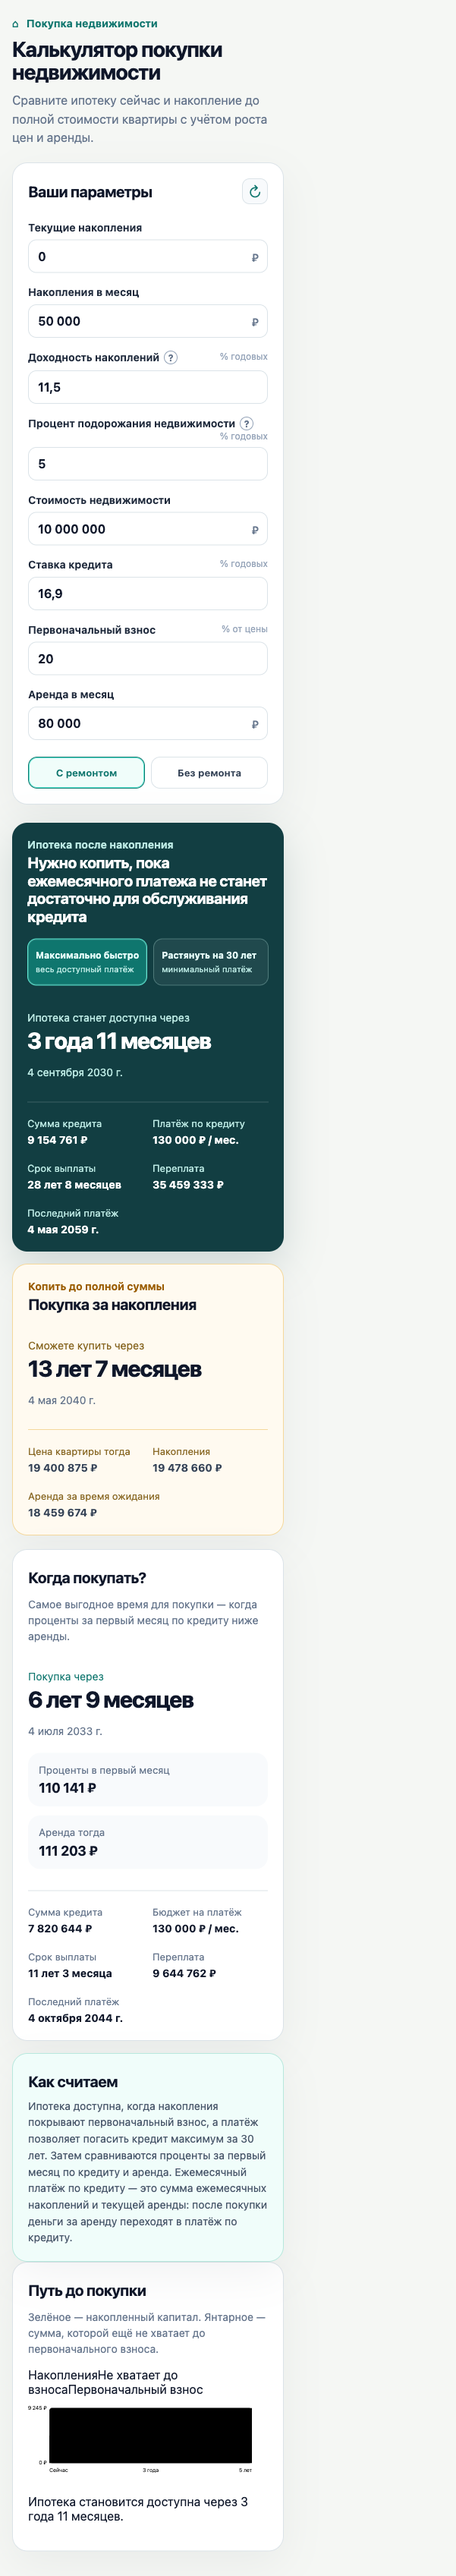
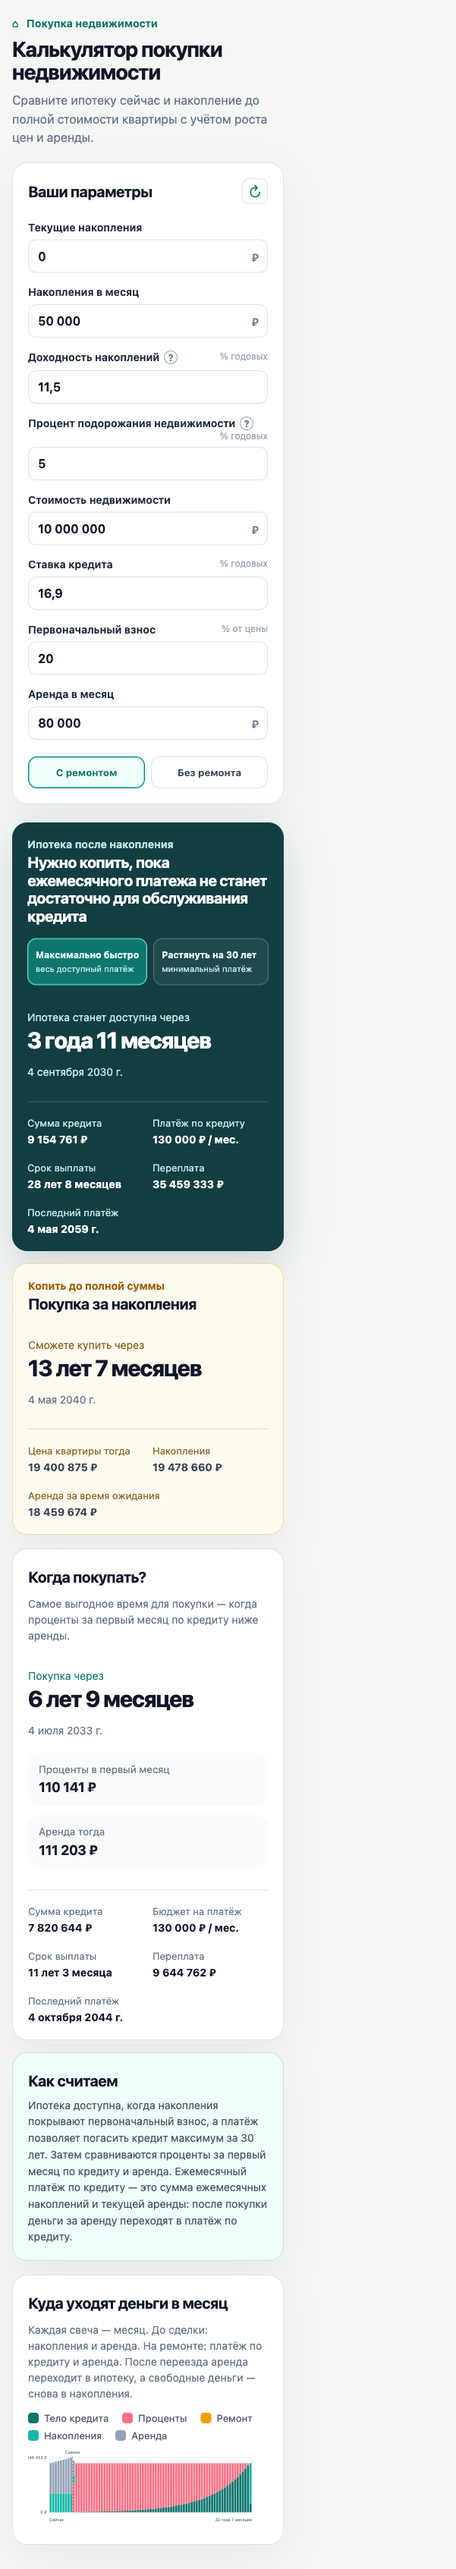
Replace journey chart with hover tooltips; drop the journey chart (#10)
- Remove the «Путь до покупки» card and buildJourney from the model
  and tests (fixture regenerated without journey data)
- Cashflow chart: styled hover tooltip with the period and per-category
  amounts, flips near card edges
- Legend swatches now use background colors (SVG fill did nothing on
  HTML elements, so the legend rendered blank)

diff --git a/src/App.vue b/src/App.vue
@@ -1,6 +1,6 @@
 <script setup>
 import { computed, nextTick, onMounted, reactive, ref } from 'vue';
-import { DEFAULTS, SIMULATION_HORIZON_MONTHS, RENOVATION_COST_SHARE, calculate, isMortgagePaymentTooLow, buildJourney, buildCashflow, rentPaidUntilMonth } from './lib/model.js';
+import { DEFAULTS, SIMULATION_HORIZON_MONTHS, RENOVATION_COST_SHARE, calculate, isMortgagePaymentTooLow, buildCashflow, rentPaidUntilMonth } from './lib/model.js';
 import { addMonths, formatDate, duration } from './lib/format.js';
 
 const inputs = reactive({ ...DEFAULTS });
@@ -46,7 +46,6 @@ const setRenovationCost = (event) => {
 };
 const result = computed(() => calculate(inputs, repaymentMode.value, { needed: renovationNeeded.value, cost: renovationCost.value, months: renovationMonths.value, funding: renovationFunding.value }));
 const mortgagePaymentTooLow = computed(() => isMortgagePaymentTooLow(result.value));
-const journey = computed(() => buildJourney(inputs, result.value.mortgageAffordable, result.value.mortgageAtDownPayment));
 const CASHFLOW_SEGMENTS = [
   { key: 'principal', label: 'Тело кредита', pick: (row) => row.principal },
   { key: 'interest', label: 'Проценты', pick: (row) => row.interest },
@@ -55,6 +54,20 @@ const CASHFLOW_SEGMENTS = [
   { key: 'rent', label: 'Аренда', pick: (row) => row.rent }
 ];
 const cashflow = computed(() => buildCashflow(inputs, repaymentMode.value, { needed: renovationNeeded.value, cost: renovationCost.value, months: renovationMonths.value, funding: renovationFunding.value }));
+const cashflowHover = ref(null);
+const cashflowTooltip = (row, event) => {
+  const container = event.currentTarget.closest('.cashflow-chart');
+  const rect = container.getBoundingClientRect();
+  let left = event.clientX - rect.left + 16, top = event.clientY - rect.top + 16;
+  if (left > rect.width - 250) left -= 266;
+  if (top > rect.height - 180) top -= 196;
+  cashflowHover.value = {
+    left: Math.max(4, left), top: Math.max(4, top),
+    period: row.period,
+    segments: row.segments.filter(({ value }) => value >= 1),
+    total: row.segments.reduce((acc, segment) => acc + segment.value, 0)
+  };
+};
 const cashflowChart = computed(() => {
   const data = cashflow.value;
   if (!data) return null;
@@ -78,11 +91,10 @@ const cashflowChart = computed(() => {
       top -= height;
       segments.push({ key: segment.key, y: top, height, label: segment.label, value });
     }
-    const parts = segments.filter(({ value }) => value >= 1).map(({ label, value }) => `${label}: ${money.format(value)}${bucket.months > 1 ? ' /мес' : ''}`);
     const period = bucket.months > 1
       ? `В среднем в месяц, ${formatDate(addMonths(new Date(), bucket.start))} — ${formatDate(addMonths(new Date(), bucket.end))}`
       : `${formatDate(addMonths(new Date(), bucket.start))}`;
-    return { month: bucket.start, x: 64 + index * slot + (slot - barWidth) / 2, segments, title: `${period} — ${parts.join(', ')}` };
+    return { month: bucket.start, x: 64 + index * slot + (slot - barWidth) / 2, segments, period };
   });
   const markerX = (month) => 64 + Math.min(buckets.length - 1, Math.floor(month / bucketSize)) * slot;
   return {
@@ -122,5 +134,5 @@ onMounted(() => { const context = document.modelContext; if (!context?.registerT
     <p v-else class="empty">Первоначальный взнос не накапливается в горизонте 60 лет.</p>
   </article>
   <article class="card cash"><p class="kicker">Копить до полной суммы</p><h2>Покупка за накопления</h2><template v-if="result.cashPurchase"><p class="big-label">Сможете купить через</p><p class="big">{{ duration(result.cashPurchase.month) }}</p><p class="muted">{{ formatDate(addMonths(new Date(), result.cashPurchase.month)) }}</p><dl><div><dt>Цена квартиры тогда</dt><dd>{{ money.format(result.cashPurchase.price) }}</dd></div><div><dt>Накопления</dt><dd>{{ money.format(result.cashPurchase.balance) }}</dd></div><div class="wide"><dt>Аренда за время ожидания</dt><dd>{{ money.format(result.cashPurchase.rentPaid) }}</dd></div><div v-if="renovationNeeded" class="wide"><dt>Дата переезда</dt><dd>{{ moveDate(result.cashPurchase.moveMonth) }}</dd></div></dl></template><p v-else class="empty">При этих параметрах накопления не догоняют стоимость недвижимости за 60 лет. Увеличьте ежемесячный взнос или доходность вклада.</p></article></div>
-  <div class="bottom"><article class="card threshold"><h2>Когда покупать?</h2><p class="muted">Самое выгодное время для покупки — когда проценты за первый месяц по кредиту ниже аренды.</p><template v-if="result.thresholdPurchase"><p class="big-label">Покупка через</p><p class="big">{{ duration(result.thresholdPurchase.month) }}</p><p class="muted">{{ formatDate(addMonths(new Date(), result.thresholdPurchase.month)) }}</p><div class="year"><div><small>Проценты в первый месяц</small><strong>{{ money.format(result.thresholdPurchase.firstMonthInterest) }}</strong></div><div><small>Аренда тогда</small><strong>{{ money.format(result.thresholdPurchase.rent) }}</strong></div></div><dl><div><dt>Сумма кредита</dt><dd>{{ money.format(result.thresholdPurchase.principal) }}</dd></div><div><dt>Бюджет на платёж</dt><dd>{{ money.format(result.thresholdPurchase.payment) }} / мес.</dd></div><div><dt>Срок выплаты</dt><dd>{{ duration(result.thresholdPurchase.months) }}</dd></div><div><dt>Переплата</dt><dd>{{ money.format(result.thresholdPurchase.overpayment) }}</dd></div><div class="wide"><dt>Последний платёж</dt><dd>{{ formatDate(addMonths(addMonths(new Date(), result.thresholdPurchase.month), result.thresholdPurchase.months)) }}</dd></div><div v-if="renovationNeeded"><dt>Переезд</dt><dd>{{ moveDate(result.thresholdPurchase.moveMonth) }}</dd></div><div v-if="renovationNeeded" class="wide"><dt>Аренда до переезда</dt><dd>{{ moveRent(result.thresholdPurchase.moveMonth) }}</dd></div></dl></template><p v-else class="empty">В горизонте 60 лет условия покупки не выполняются.</p></article><aside class="card how"><h2>Как считаем</h2><p>Ипотека доступна, когда накопления покрывают первоначальный взнос, а платёж позволяет погасить кредит максимум за 30 лет. Затем сравниваются проценты за первый месяц по кредиту и аренда. Ежемесячный платёж по кредиту — это сумма ежемесячных накоплений и текущей аренды: после покупки деньги за аренду переходят в платёж по кредиту.</p><p v-if="renovationNeeded && renovationFunding === 'before'">Квартира без ремонта: цель накоплений — первоначальный взнос плюс стоимость ремонта, обе суммы растут вместе с ценой недвижимости. Сделка, затем ремонт — в это время аренда продолжается, а платёж по кредиту обслуживается только из ежемесячных накоплений. Аренда переходит в платёж по кредиту после переезда.</p><p v-if="renovationNeeded && renovationFunding === 'after'">Ремонт после покупки: сделка — при накоплении первоначального взноса. Пока ремонт не оплачен, кредит обслуживается 30-летним аннуитетом, а излишек «накопления минус аннуитет» идёт на ремонт поэтапно. Переезд — когда завершены и работы, и оплата; после переезда свободные деньги ускоряют погашение.</p></aside></div><article class="card journey-chart"><div><h2>Путь до покупки</h2><p class="muted">Зелёное — накопленный капитал. Янтарное — сумма, которой ещё не хватает до первоначального взноса.</p></div><div class="chart-legend"><span><i class="legend-savings"></i>Накопления</span><span><i class="legend-shortage"></i>Не хватает до взноса</span><span><i class="legend-down-payment"></i>Первоначальный взнос</span></div><svg viewBox="0 0 720 250" role="img" aria-label="График накоплений и первоначального взноса"><defs><linearGradient id="savings-fill" x1="0" x2="0" y1="0" y2="1"><stop offset="0" stop-color="#14b8a6" stop-opacity=".5"/><stop offset="1" stop-color="#14b8a6" stop-opacity=".05"/></linearGradient><linearGradient id="shortage-fill" x1="0" x2="0" y1="0" y2="1"><stop offset="0" stop-color="#f59e0b" stop-opacity=".35"/><stop offset="1" stop-color="#f59e0b" stop-opacity=".08"/></linearGradient></defs><rect class="chart-frame" x="64" y="34" width="608" height="166" rx="8"/><line class="chart-grid" x1="64" y1="117" x2="672" y2="117"/><path class="chart-area-savings" :d="journey.savingsArea"/><path v-if="journey.shortageArea" class="chart-area-shortage" :d="journey.shortageArea"/><line v-if="journey.markerX !== null" class="chart-marker" :x1="journey.markerX" y1="34" :x2="journey.markerX" y2="200"/><path class="chart-line chart-down-payment" :d="journey.requiredPath"/><path class="chart-line chart-savings" :d="journey.savingsPath"/><text x="56" y="40" text-anchor="end">{{ money.format(journey.maximum) }}</text><text x="56" y="204" text-anchor="end">0 ₽</text><text x="64" y="226">Сейчас</text><text :x="journey.middleX" y="226" text-anchor="middle">{{ journey.middleLabel }}</text><text x="672" y="226" text-anchor="end">{{ journey.endLabel }}</text></svg><p v-if="journey.markerLabel" class="chart-note"><span></span>Ипотека становится доступна через {{ journey.markerLabel }}.</p><p v-else class="chart-note muted">В ближайшие 30 лет ипотека не становится доступна при текущих параметрах.</p></article><article v-if="cashflowChart" class="card cashflow-chart"><div><h2>Куда уходят деньги в месяц</h2><p class="muted">Каждая свеча — месяц. До сделки: накопления и аренда. На ремонте: платёж по кредиту и аренда. После переезда аренда переходит в ипотеку, а свободные деньги — снова в накопления.</p></div><div class="chart-legend"><span><i class="cf-principal"></i>Тело кредита</span><span><i class="cf-interest"></i>Проценты</span><span><i class="cf-renovation"></i>Ремонт</span><span><i class="cf-savings"></i>Накопления</span><span><i class="cf-rent"></i>Аренда</span></div><svg viewBox="0 0 720 250" role="img" aria-label="Ежемесячное распределение платежей по категориям"><rect class="chart-frame" x="64" y="34" width="608" height="166" rx="8"/><line class="chart-grid" x1="64" y1="117" x2="672" y2="117"/><g v-for="row in cashflowChart.rows" :key="row.month"><title>{{ row.title }}</title><rect v-for="seg in row.segments" :key="seg.key" :class="'cf-' + seg.key" :x="row.x" :y="seg.y" :width="cashflowChart.barWidth" :height="seg.height" rx="1"/></g><line v-if="cashflowChart.dealX !== null" class="chart-marker" :x1="cashflowChart.dealX" y1="34" :x2="cashflowChart.dealX" y2="200"/><text v-if="cashflowChart.dealX !== null" :x="cashflowChart.dealX" y="24" text-anchor="middle">Сделка</text><line v-if="cashflowChart.moveX !== null" class="chart-marker" :x1="cashflowChart.moveX" y1="34" :x2="cashflowChart.moveX" y2="200"/><text v-if="cashflowChart.moveX !== null" :x="cashflowChart.moveX" y="24" text-anchor="middle">Переезд</text><text x="56" y="40" text-anchor="end">{{ cashflowChart.maxLabel }}</text><text x="56" y="204" text-anchor="end">0 ₽</text><text x="64" y="226">Сейчас</text><text x="672" y="226" text-anchor="end">{{ cashflowChart.endLabel }}</text></svg></article></section></div></main>
+  <div class="bottom"><article class="card threshold"><h2>Когда покупать?</h2><p class="muted">Самое выгодное время для покупки — когда проценты за первый месяц по кредиту ниже аренды.</p><template v-if="result.thresholdPurchase"><p class="big-label">Покупка через</p><p class="big">{{ duration(result.thresholdPurchase.month) }}</p><p class="muted">{{ formatDate(addMonths(new Date(), result.thresholdPurchase.month)) }}</p><div class="year"><div><small>Проценты в первый месяц</small><strong>{{ money.format(result.thresholdPurchase.firstMonthInterest) }}</strong></div><div><small>Аренда тогда</small><strong>{{ money.format(result.thresholdPurchase.rent) }}</strong></div></div><dl><div><dt>Сумма кредита</dt><dd>{{ money.format(result.thresholdPurchase.principal) }}</dd></div><div><dt>Бюджет на платёж</dt><dd>{{ money.format(result.thresholdPurchase.payment) }} / мес.</dd></div><div><dt>Срок выплаты</dt><dd>{{ duration(result.thresholdPurchase.months) }}</dd></div><div><dt>Переплата</dt><dd>{{ money.format(result.thresholdPurchase.overpayment) }}</dd></div><div class="wide"><dt>Последний платёж</dt><dd>{{ formatDate(addMonths(addMonths(new Date(), result.thresholdPurchase.month), result.thresholdPurchase.months)) }}</dd></div><div v-if="renovationNeeded"><dt>Переезд</dt><dd>{{ moveDate(result.thresholdPurchase.moveMonth) }}</dd></div><div v-if="renovationNeeded" class="wide"><dt>Аренда до переезда</dt><dd>{{ moveRent(result.thresholdPurchase.moveMonth) }}</dd></div></dl></template><p v-else class="empty">В горизонте 60 лет условия покупки не выполняются.</p></article><aside class="card how"><h2>Как считаем</h2><p>Ипотека доступна, когда накопления покрывают первоначальный взнос, а платёж позволяет погасить кредит максимум за 30 лет. Затем сравниваются проценты за первый месяц по кредиту и аренда. Ежемесячный платёж по кредиту — это сумма ежемесячных накоплений и текущей аренды: после покупки деньги за аренду переходят в платёж по кредиту.</p><p v-if="renovationNeeded && renovationFunding === 'before'">Квартира без ремонта: цель накоплений — первоначальный взнос плюс стоимость ремонта, обе суммы растут вместе с ценой недвижимости. Сделка, затем ремонт — в это время аренда продолжается, а платёж по кредиту обслуживается только из ежемесячных накоплений. Аренда переходит в платёж по кредиту после переезда.</p><p v-if="renovationNeeded && renovationFunding === 'after'">Ремонт после покупки: сделка — при накоплении первоначального взноса. Пока ремонт не оплачен, кредит обслуживается 30-летним аннуитетом, а излишек «накопления минус аннуитет» идёт на ремонт поэтапно. Переезд — когда завершены и работы, и оплата; после переезда свободные деньги ускоряют погашение.</p></aside></div><article v-if="cashflowChart" class="card cashflow-chart"><div><h2>Куда уходят деньги в месяц</h2><p class="muted">Каждая свеча — месяц. До сделки: накопления и аренда. На ремонте: платёж по кредиту и аренда. После переезда аренда переходит в ипотеку, а свободные деньги — снова в накопления.</p></div><div class="chart-legend"><span><i class="cf-principal"></i>Тело кредита</span><span><i class="cf-interest"></i>Проценты</span><span><i class="cf-renovation"></i>Ремонт</span><span><i class="cf-savings"></i>Накопления</span><span><i class="cf-rent"></i>Аренда</span></div><svg viewBox="0 0 720 250" role="img" aria-label="Ежемесячное распределение платежей по категориям"><rect class="chart-frame" x="64" y="34" width="608" height="166" rx="8"/><line class="chart-grid" x1="64" y1="117" x2="672" y2="117"/><g v-for="row in cashflowChart.rows" :key="row.month" @mouseenter="cashflowTooltip(row, $event)" @mousemove="cashflowTooltip(row, $event)" @mouseleave="cashflowHover = null"><rect v-for="seg in row.segments" :key="seg.key" :class="'cf-' + seg.key" :x="row.x" :y="seg.y" :width="cashflowChart.barWidth" :height="seg.height" rx="1"/></g><line v-if="cashflowChart.dealX !== null" class="chart-marker" :x1="cashflowChart.dealX" y1="34" :x2="cashflowChart.dealX" y2="200"/><text v-if="cashflowChart.dealX !== null" :x="cashflowChart.dealX" y="24" text-anchor="middle">Сделка</text><line v-if="cashflowChart.moveX !== null" class="chart-marker" :x1="cashflowChart.moveX" y1="34" :x2="cashflowChart.moveX" y2="200"/><text v-if="cashflowChart.moveX !== null" :x="cashflowChart.moveX" y="24" text-anchor="middle">Переезд</text><text x="56" y="40" text-anchor="end">{{ cashflowChart.maxLabel }}</text><text x="56" y="204" text-anchor="end">0 ₽</text><text x="64" y="226">Сейчас</text><text x="672" y="226" text-anchor="end">{{ cashflowChart.endLabel }}</text></svg><div v-if="cashflowHover" class="chart-tooltip" :style="{ left: cashflowHover.left + 'px', top: cashflowHover.top + 'px' }"><p class="chart-tooltip-period">{{ cashflowHover.period }}</p><div v-for="seg in cashflowHover.segments" :key="seg.key" class="chart-tooltip-row"><span><i class="cf-dot" :class="'cf-' + seg.key"></i>{{ seg.label }}</span><b>{{ money.format(seg.value) }}</b></div><div class="chart-tooltip-row chart-tooltip-total"><span>Всего в месяц</span><b>{{ money.format(cashflowHover.total) }}</b></div></div></article></section></div></main>
 </template>

diff --git a/src/style.css b/src/style.css
@@ -32,18 +32,18 @@ input:focus { outline: 3px solid #ccfbf1; border-color: #0f766e; }
 dl { display: grid; grid-template-columns: repeat(2, minmax(0, 1fr)); gap: 20px 12px; margin: 28px 0 0; padding-top: 20px; border-top: 1px solid rgba(255,255,255,.18); }.cash dl { border-color: #f5d89b; color: #334155; }dt { font-size: 13px; color: #bceae4; }.cash dt { color: #866520; }dd { margin: 5px 0 0; font-size: 14px; font-weight: 700; line-height: 1.35; }.wide { grid-column: 1 / -1; }
 .bottom { display: grid; grid-template-columns: 1.15fr .85fr; gap: 16px; margin-top: 18px; }.bottom .card { min-height: auto; }.threshold .big-label { color: #0f766e; }.threshold dl { border-color: #dbe3e8; color: #0f172a; }.threshold dt { color: #64748b; }.year { display: grid; grid-template-columns: 1fr 1fr; gap: 12px; margin-top: 18px; }.year > div { padding: 14px; border-radius: 16px; background: #f8fafc; }.year small { color: #64748b; display: block; }.year strong { display: block; margin-top: 5px; font-size: 18px; letter-spacing: -.02em; }.how { background: #f0fdfa; border-color: #b7e8dd; }.how p { line-height: 1.55; margin: 10px 0 0; color: #475569; font-size: 14px; }
 .warning { margin: 16px 0 0; padding: 14px 16px; color: #9f1239; background: #fff1f2; border: 1px solid #fecdd3; border-radius: 16px; font-size: 14px; line-height: 1.45; }.empty { margin-top: 32px; padding: 16px; border: 1px solid #f5d89b; border-radius: 16px; color: #78350f; background: rgba(255,255,255,.72); font-size: 14px; line-height: 1.5; }
-.journey-chart { margin-top: 18px; }
-.journey-chart svg { display: block; width: 100%; height: auto; margin-top: 6px; }
-.chart-legend { display: flex; flex-wrap: wrap; gap: 8px 18px; margin-top: 14px; font-size: 13px; color: #475569; }.chart-legend span { display: inline-flex; align-items: center; gap: 7px; }.chart-legend i { width: 14px; height: 14px; border-radius: 4px; }.legend-savings { background: linear-gradient(180deg, rgba(20,184,166,.55), rgba(20,184,166,.12)); border: 1px solid #14b8a6; }.legend-shortage { background: linear-gradient(180deg, rgba(245,158,11,.45), rgba(245,158,11,.12)); border: 1px solid #f59e0b; }.legend-down-payment { height: 3px; border-radius: 2px; background: #0f766e; }
 .chart-frame { fill: #f8fafc; stroke: #dbe3e8; }
 .chart-grid { stroke: #e2e8f0; }
-.chart-area-savings { fill: url(#savings-fill); }
-.chart-area-shortage { fill: url(#shortage-fill); }
-.chart-line { fill: none; stroke-width: 2.5; stroke-linecap: round; stroke-linejoin: round; }.chart-savings { stroke: #14b8a6; }.chart-down-payment { stroke: #0f766e; }
 .chart-marker { stroke: #334155; stroke-width: 1.5; stroke-dasharray: 5 5; }
-.journey-chart text { fill: #64748b; font-size: 12px; font-weight: 500; }
-.chart-note { display: flex; align-items: center; gap: 8px; margin: 12px 0 0; font-size: 13px; color: #334155; }.chart-note span { width: 9px; height: 9px; border-radius: 50%; background: #0f766e; flex: none; }.chart-note.muted { color: #64748b; }
-.cashflow-chart { margin-top: 18px; }
-.cf-principal { fill: #0f766e; }.cf-interest { fill: #fb7185; }.cf-renovation { fill: #f59e0b; }.cf-savings { fill: #14b8a6; }.cf-rent { fill: #94a3b8; }
+.chart-legend { display: flex; flex-wrap: wrap; gap: 8px 18px; margin-top: 14px; font-size: 13px; color: #475569; }.chart-legend span { display: inline-flex; align-items: center; gap: 7px; }.chart-legend i { width: 14px; height: 14px; border-radius: 4px; }
+.cashflow-chart { margin-top: 18px; position: relative; }
+.cashflow-chart svg { display: block; width: 100%; height: auto; margin-top: 6px; }
+.cashflow-chart text { fill: #64748b; font-size: 12px; font-weight: 500; }
+.cf-principal { fill: #0f766e; background: #0f766e; }.cf-interest { fill: #fb7185; background: #fb7185; }.cf-renovation { fill: #f59e0b; background: #f59e0b; }.cf-savings { fill: #14b8a6; background: #14b8a6; }.cf-rent { fill: #94a3b8; background: #94a3b8; }
+.cf-dot { display: inline-block; width: 8px; height: 8px; border-radius: 2px; margin-right: 7px; }
+.chart-tooltip { position: absolute; z-index: 20; min-width: 210px; max-width: 280px; padding: 10px 12px; border-radius: 12px; background: #0f172a; color: #e2e8f0; font-size: 12.5px; line-height: 1.45; box-shadow: 0 14px 30px rgba(15, 23, 42, .28); pointer-events: none; }
+.chart-tooltip-period { margin: 0 0 6px; color: #94a3b8; font-size: 11.5px; }
+.chart-tooltip-row { display: flex; justify-content: space-between; gap: 16px; margin-top: 4px; }.chart-tooltip-row b { white-space: nowrap; font-weight: 700; }
+.chart-tooltip-total { border-top: 1px solid rgba(255, 255, 255, .16); margin-top: 7px; padding-top: 6px; }
 @media (max-width: 900px) { .layout { grid-template-columns: 1fr; }.inputs { grid-template-columns: 1fr 1fr; } }
 @media (max-width: 620px) { main { padding: 22px 16px 32px; } header { align-items: start; flex-direction: column; margin-bottom: 20px; }.inputs, .cards, .bottom, .year { grid-template-columns: 1fr; }.panel, .card { padding: 20px; border-radius: 20px; } }

diff --git a/src/lib/model.js b/src/lib/model.js
@@ -1,5 +1,3 @@
-import { yearsLabel, duration } from './format.js';
-
 export const DEFAULTS = { savings: 0, monthlySavings: 50000, mortgageRate: 16.9, propertyPrice: 10000000, downPaymentPercent: 20, inflation: 5, rent: 80000, depositRate: 11.5 };
 export const SIMULATION_HORIZON_MONTHS = 720;
 export const AFFORDABILITY_HORIZON_MONTHS = 360;
@@ -263,38 +261,3 @@ export const buildCashflow = (rawInputs, repaymentMode, renovation = NO_RENOVATI
 };
 
 export const isMortgagePaymentTooLow = (result) => result.hasDownPayment ? result.months === null : result.firstMortgagePaymentTooLow;
-
-export const buildJourney = (rawInputs, mortgageAffordable, mortgageAtDownPayment) => {
-  const number = (key) => Math.max(0, Number(rawInputs[key]) || 0);
-  const savings = number('savings'), monthlySavings = number('monthlySavings'), propertyPrice = number('propertyPrice'), downPaymentPercent = number('downPaymentPercent'), inflation = number('inflation'), depositRate = number('depositRate');
-  const markerMonth = mortgageAffordable?.month ?? null;
-  const referenceMonth = markerMonth ?? mortgageAtDownPayment?.month ?? 360;
-  const horizon = Math.max(60, Math.min(360, Math.ceil(referenceMonth / 12) * 12));
-  const growth = 1 + inflation / 100;
-  let balance = savings;
-  const values = [];
-  for (let month = 0; month <= horizon; month += 1) {
-    values.push({ month, balance, required: propertyPrice * Math.pow(growth, month / 12) * downPaymentPercent / 100 });
-    balance = balance * (1 + depositRate / 100 / 12) + monthlySavings;
-  }
-  const maximum = Math.max(1, ...values.flatMap(({ balance: amount, required }) => [amount, required]));
-  const x = (month) => 64 + month / horizon * 608;
-  const y = (value) => 34 + (1 - value / maximum) * 166;
-  const path = (key) => values.map(({ month, [key]: value }, index) => `${index ? 'L' : 'M'}${x(month).toFixed(1)},${y(value).toFixed(1)}`).join(' ');
-  const area = (key) => `M${x(values[0].month).toFixed(1)},200 ${values.map(({ month, [key]: value }) => `L${x(month).toFixed(1)},${y(value).toFixed(1)}`).join(' ')} L${x(values.at(-1).month).toFixed(1)},200 Z`;
-  const firstCoveredIndex = values.findIndex(({ balance: amount, required }) => amount >= required);
-  const shortage = values.slice(0, (firstCoveredIndex === -1 ? values.length - 1 : firstCoveredIndex) + 1);
-  const shortageArea = shortage.length > 1 ? `M${shortage.map(({ month, required }) => `${x(month).toFixed(1)},${y(required).toFixed(1)}`).join(' L')} L${[...shortage].reverse().map(({ month, balance: amount }) => `${x(month).toFixed(1)},${y(amount).toFixed(1)}`).join(' L')} Z` : null;
-  return {
-    savingsPath: path('balance'),
-    requiredPath: path('required'),
-    savingsArea: area('balance'),
-    shortageArea,
-    markerX: markerMonth === null ? null : x(markerMonth),
-    maximum,
-    middleX: x(horizon / 2),
-    middleLabel: yearsLabel(Math.round(horizon / 24)),
-    endLabel: yearsLabel(Math.round(horizon / 12)),
-    markerLabel: markerMonth === null ? null : duration(markerMonth)
-  };
-};

diff --git a/src/lib/model.test.js b/src/lib/model.test.js
@@ -1,5 +1,5 @@
 import { describe, expect, it } from 'vitest';
-import { DEFAULTS, NO_RENOVATION, RENOVATION_COST_SHARE, SIMULATION_HORIZON_MONTHS, loanPlan, loanPlanStepped, loanScheduleStepped, paymentForTerm, selectedLoanPlan, selectedRenovationLoanPlan, afterPurchaseSchedule, calculate, isMortgagePaymentTooLow, buildJourney, buildCashflow, rentPaidUntilMonth } from './model.js';
+import { DEFAULTS, NO_RENOVATION, RENOVATION_COST_SHARE, SIMULATION_HORIZON_MONTHS, loanPlan, loanPlanStepped, loanScheduleStepped, paymentForTerm, selectedLoanPlan, selectedRenovationLoanPlan, afterPurchaseSchedule, calculate, isMortgagePaymentTooLow, buildCashflow, rentPaidUntilMonth } from './model.js';
 import { plural, yearsLabel, monthsLabel, duration } from './format.js';
 import expected from './model.characterization.json';
 
@@ -80,7 +80,6 @@ describe('calculate (characterization)', () => {
       const result = calculate(inputs, mode);
       expect(roundDeep(result)).toEqual(expected[name].result);
       expect(isMortgagePaymentTooLow(result)).toBe(expected[name].mortgagePaymentTooLow);
-      expect(roundDeep(buildJourney(inputs, result.mortgageAffordable, result.mortgageAtDownPayment))).toEqual(expected[name].journey);
     });
   }
 
@@ -99,15 +98,6 @@ describe('calculate (characterization)', () => {
     expect(result.months).toBe(102);
     expect(result.cashPurchase.month).toBe(92);
     expect(result.thresholdPurchase.month).toBe(20);
-  });
-});
-
-describe('buildJourney', () => {
-  it('omits the marker when the mortgage never becomes affordable', () => {
-    const result = calculate({ ...DEFAULTS, monthlySavings: 1000, rent: 0 }, 'fast');
-    const journey = buildJourney({ ...DEFAULTS, monthlySavings: 1000, rent: 0 }, result.mortgageAffordable, result.mortgageAtDownPayment);
-    expect(journey.markerX).toBeNull();
-    expect(journey.markerLabel).toBeNull();
   });
 });
 

diff --git a/README.md b/README.md
@@ -40,13 +40,9 @@
 
 ![Сценарий: ипотека доступна сейчас](docs/screenshots/desktop-scenario.png)
 
-## Путь до покупки
-
-На графике видно, как растут накопления (зелёная область) и сколько ещё не хватает до первоначального взноса (янтарная). Маркер — месяц, когда ипотека становится доступной.
-
 ## Куда уходят деньги в месяц
 
-Вторая диаграмма — стековые свечи по месяцам: тело кредита, проценты, ремонт, накопления и аренда. До сделки месячный бюджет делится между накоплениями и арендой; на ремонте аренда продолжается, а платёж по кредиту обслуживается из накоплений; после переезда аренда переходит в ипотеку, и свободные деньги снова идут в накопления.
+Диаграмма — стековые свечи по месяцам: тело кредита, проценты, ремонт, накопления и аренда. До сделки месячный бюджет делится между накоплениями и арендой; на ремонте аренда продолжается, а платёж по кредиту обслуживается из накоплений; после переезда аренда переходит в ипотеку, и свободные деньги снова идут в накопления. Наведите курсор на свечу — увидите месяц и точные суммы.
 
 ![Куда уходят деньги в месяц](docs/screenshots/cashflow.png)
 
